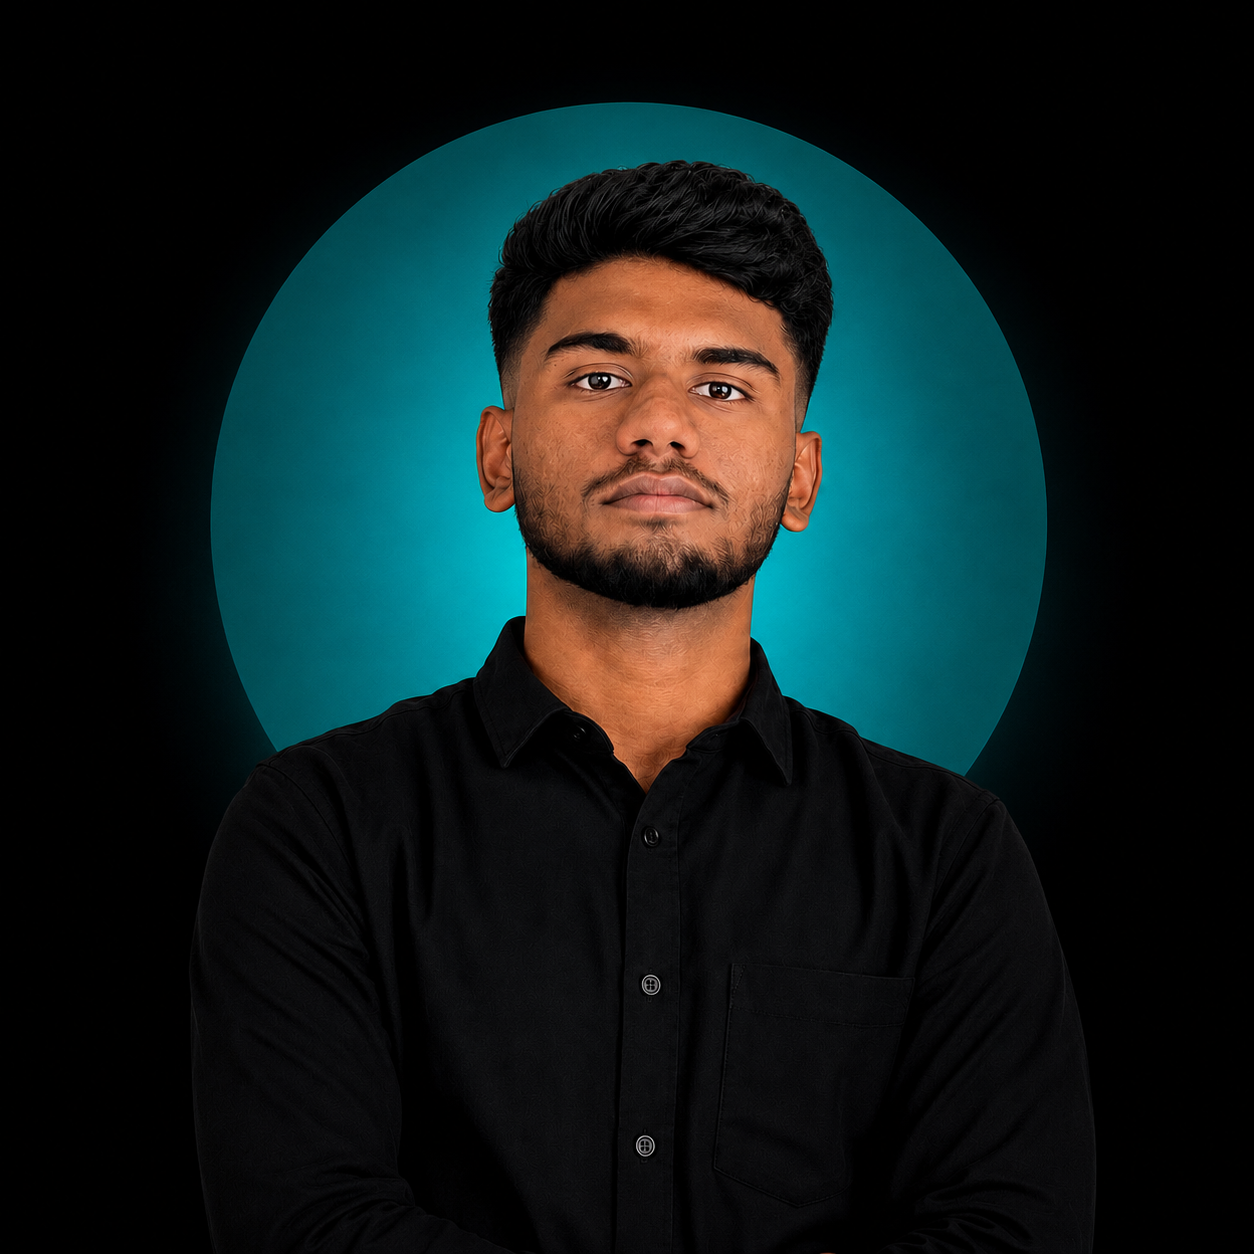
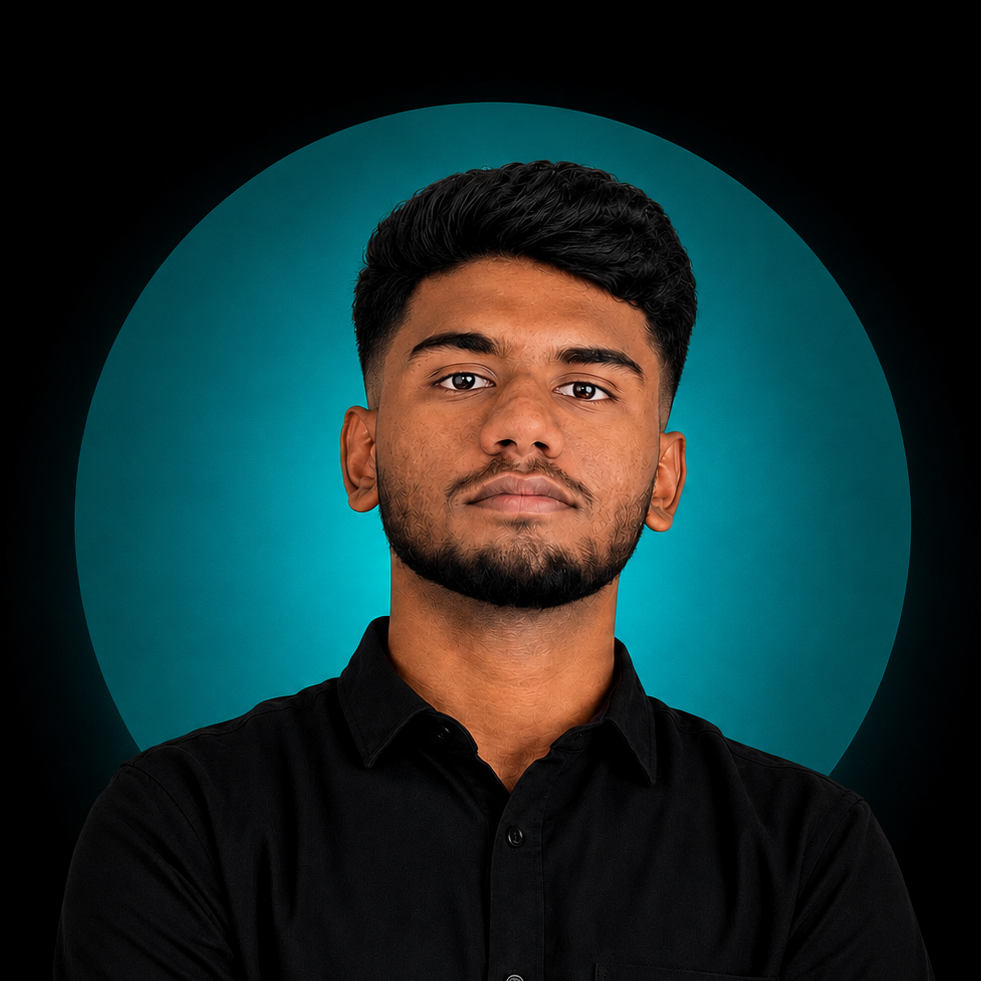
update links

diff --git a/app/layout.tsx b/app/layout.tsx
@@ -29,7 +29,7 @@ export const metadata: Metadata = {
   metadataBase: new URL('https://orbitratech.net'),
   title: 'Orbitra Tech - Digital Transformation for Sri Lankan SMEs',
   description:
-    'Websites, mobile apps, digital transformation, and e-commerce for Sri Lankan SMEs — fixed pricing and production-grade engineering.',
+    'Websites, mobile apps, digital transformation, and e-commerce for Sri Lankan SMEs - fixed pricing and production-grade engineering.',
   keywords:
     'digital transformation, Sri Lanka SMEs, web development Sri Lanka, mobile app development, e-commerce Sri Lanka, business digitalization',
   authors: [{ name: 'Adhham Safwan', url: 'https://adhham.dev' }],

diff --git a/components/Payments.tsx b/components/Payments.tsx
@@ -7,7 +7,7 @@ export default function Payments() {
       id='payments'
       eyebrow='Payments'
       title='Checkout your customers already trust'
-      description='We integrate card networks, wallets, and local gateways — Visa, Mastercard, PayPal, Stripe, PayHere, and Polar — so Sri Lankan SMEs can get paid without friction.'
+      description='We integrate card networks, wallets, and local gateways - Visa, Mastercard, PayPal, Stripe, PayHere, and Polar - so Sri Lankan SMEs can get paid without friction.'
       logos={PAYMENT_LOGOS}
       reverse
     />

diff --git a/components/Technologies.tsx b/components/Technologies.tsx
@@ -7,7 +7,7 @@ export default function Technologies() {
       id='platforms'
       eyebrow='Platforms & Integrations'
       title='Built with enterprise-grade tools'
-      description='Databases, AI APIs, payment gateways, and commerce platforms — the same stack trusted by global product teams, configured for Sri Lankan businesses.'
+      description='Databases, AI APIs, payment gateways, and commerce platforms - the same stack trusted by global product teams, configured for Sri Lankan businesses.'
       logos={TECHNOLOGY_LOGOS}
       dualRow
     />

diff --git a/components/IntegrationFlow.tsx b/components/IntegrationFlow.tsx
@@ -161,7 +161,7 @@ export default function IntegrationFlow() {
             One platform. Every system wired in.
           </h2>
           <p className='mt-4 text-[length:var(--text-lg)] leading-relaxed text-[var(--color-ink-muted)]'>
-            We build your website or app as the hub — then connect payments,
+            We build your website or app as the hub - then connect payments,
             data, and notifications so your business runs on software,
             not spreadsheets.
           </p>

diff --git a/components/Footer.tsx b/components/Footer.tsx
@@ -22,7 +22,7 @@ export default async function Footer() {
               loading='lazy'
             />
             <p className='text-[length:var(--text-base)] leading-relaxed text-[var(--color-ink-muted)]'>
-              Practical digital products for Sri Lankan SMEs — websites, mobile
+              Practical digital products for Sri Lankan SMEs - websites, mobile
               apps, and e-commerce with clear pricing and local context.
             </p>
             <div className='mt-6 flex gap-3'>

diff --git a/README.md b/README.md
@@ -17,7 +17,7 @@
 
 ## About
 
-**Orbitra Tech (Pvt) Ltd** partners with growing businesses across Sri Lanka and beyond. We design and ship websites, mobile apps, e-commerce stores, and internal systems — with fixed pricing, honest timelines, and production-grade engineering.
+**Orbitra Tech (Pvt) Ltd** partners with growing businesses across Sri Lanka and beyond. We design and ship websites, mobile apps, e-commerce stores, and internal systems - with fixed pricing, honest timelines, and production-grade engineering.
 
 **Services:** website development · mobile apps · digital transformation · e-commerce
 
